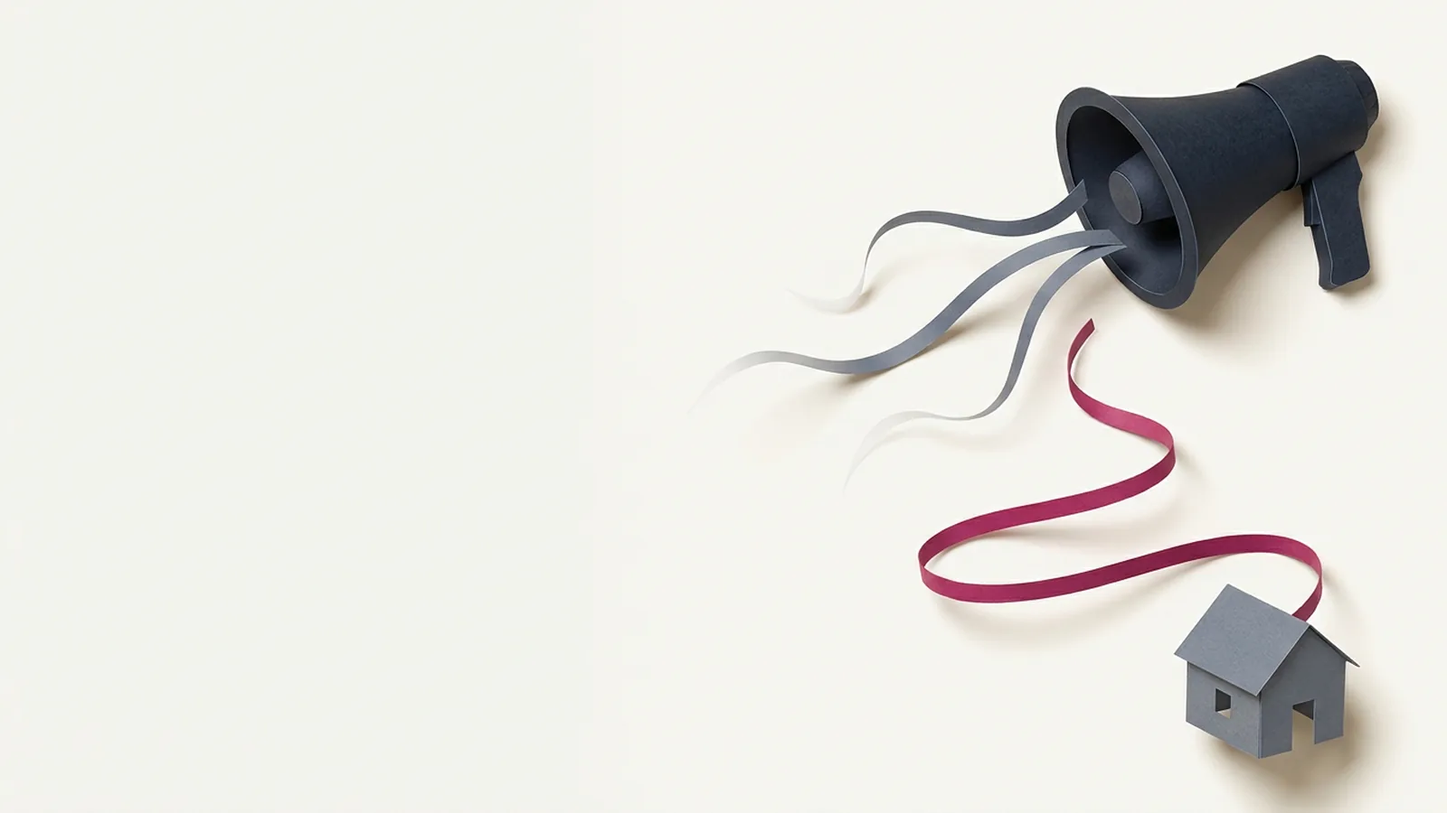
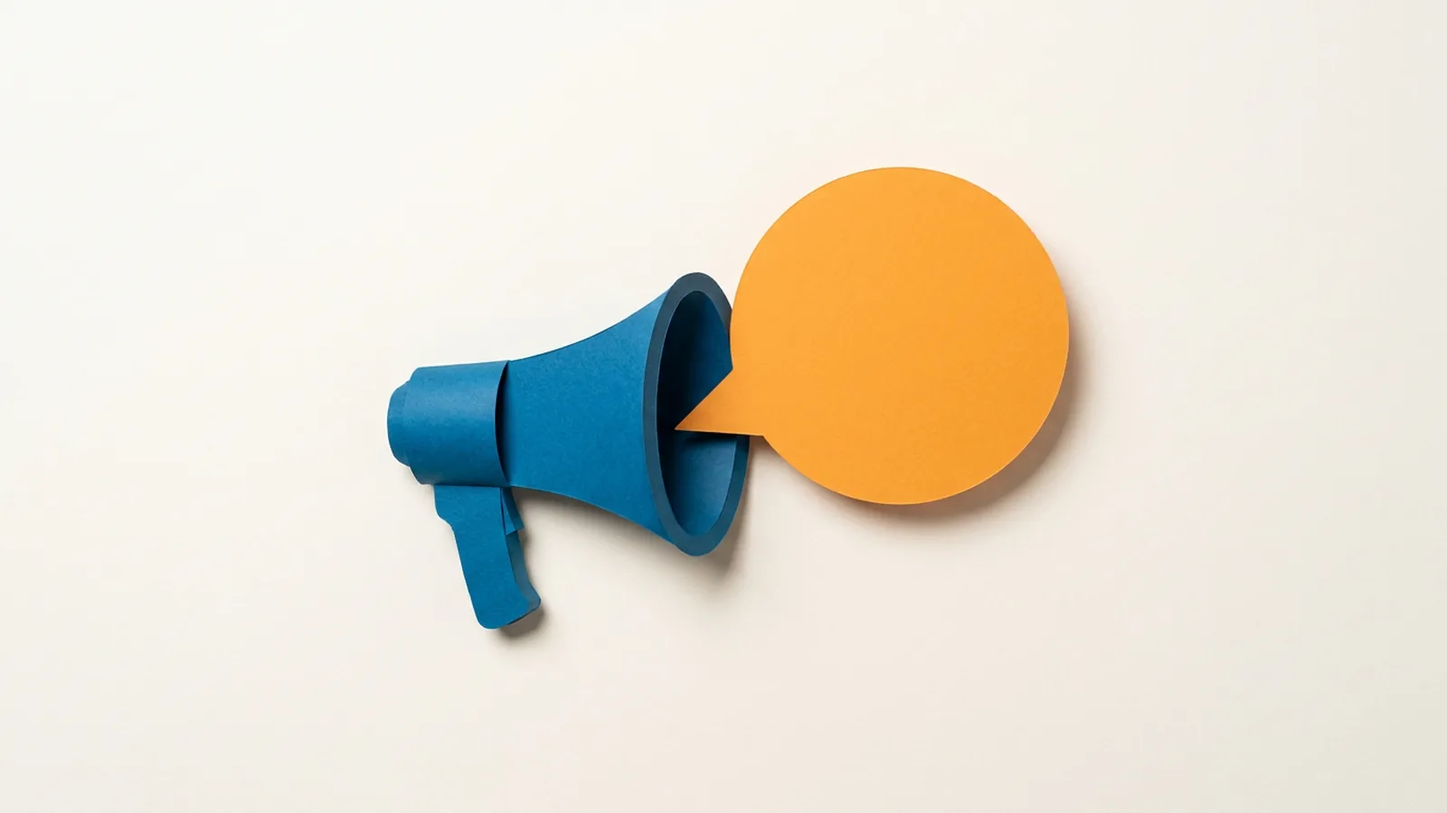
insights: replace dark hero images with BRAND.md E3 paper-craft (LINE megaphone, AI microphone)
Claude-Session: https://claude.ai/code/session_01CQJsM3v3SyBC2VxjnAvC4W

Changed region(s): [[0.25, 0.0622, 0.9688, 0.8089], [0.8125, 0.7156, 0.9688, 1.0]]

diff --git a/src/data/insights.ts b/src/data/insights.ts
@@ -401,7 +401,7 @@ export const insights: InsightPost[] = [
     cover: "/images/insights/line-news-trust-2026-hero",
     th: {
       coverAlt:
-        "ภาพประกอบกระดาษ โทรโข่งสีดำปล่อยแถบกระดาษสีเทาหลายเส้นที่ลอยจางหายไปกลางทาง มีเพียงแถบสีชมพูเส้นเดียวที่คดเคี้ยวลงไปถึงบ้านหลังเล็ก",
+        "ภาพประกอบกระดาษ โทรโข่งสีน้ำเงินบนพื้นกระดาษสีครีม เสียงที่ออกจากปากโทรโข่งกลายเป็นบับเบิลแชตสีส้มกลมๆ อันเดียว",
       coverCaption: "ภาพประกอบสร้างด้วย AI",
       title: "ช่องทางมีแล้ว แต่ความเชื่อใจหายไป: บทเรียนจากข้อมูลข่าวสารของคนไทยปี 2026",
       dek: "ข้อมูลปี 2026 ชี้ว่าคนไทยรับข่าวผ่านเฟซบุ๊กและ LINE แต่ความเชื่อมั่นต่อข่าวลดเหลือ 47% หน่วยงานรัฐควรสื่อสารอย่างไรให้คนเชื่อและลงมือทำ",
@@ -540,7 +540,7 @@ export const insights: InsightPost[] = [
     en: {
       title: "The channels are there, the trust is not: what Thailand's 2026 news data tells public communicators",
       coverAlt:
-        "Paper-craft illustration: a black megaphone sends out several grey paper strips that drift and fade, while a single pink strip winds all the way down to a small house",
+        "Paper-craft illustration on cream paper: a blue megaphone whose sound turns into a single round orange chat bubble",
       coverCaption: "Illustration generated with AI",
       dek: "Data from 2026 shows Thais get their news on Facebook and LINE, yet trust in news has fallen to 47%. How should government agencies communicate so that people believe the message and act on it?",
       body: [
@@ -682,7 +682,7 @@ export const insights: InsightPost[] = [
     cover: "/images/insights/ai-news-comfort-2025-hero",
     th: {
       coverAlt:
-        "ภาพประกอบกระดาษ เวทีเล็กที่มีม่านสีดำ ไมโครโฟนสีชมพูตั้งอยู่หน้าม่าน ส่วนเฟืองสีเทาซ่อนอยู่หลังม่านที่แง้มไว้",
+        "ภาพประกอบกระดาษ ไมโครโฟนตั้งโต๊ะสีส้มบนพื้นกระดาษสีครีม ฐานของไมโครโฟนเป็นเฟืองสีน้ำเงิน",
       coverCaption: "ภาพประกอบสร้างด้วย AI",
       title: "ให้ AI ช่วยได้ แต่อย่าให้ AI เป็นคนเล่า",
       dek: "ผลสำรวจ 6 ประเทศพบว่าคนสบายใจกับข่าวที่คนเขียน 62% แต่เหลือ 12% ถ้า AI เขียนทั้งหมด องค์กรไทยควรใช้ AI ในงานสื่อสารอย่างไรให้ไม่เสียความเชื่อใจ",
@@ -923,7 +923,7 @@ export const insights: InsightPost[] = [
     en: {
       title: "Let AI help, but don't let AI tell the story",
       coverAlt:
-        "Paper-craft illustration: a small stage with a black curtain, a pink microphone standing in front, and a grey gear half-hidden behind the parted curtain",
+        "Paper-craft illustration on cream paper: an orange desk microphone standing on a blue gear as its base",
       coverCaption: "Illustration generated with AI",
       dek: "A six-country survey finds 62% are comfortable with news written by people, but only 12% when AI writes it all. How should organisations use AI in communication without losing trust?",
       body: [

diff --git a/CLAUDE.md b/CLAUDE.md
@@ -95,7 +95,7 @@ public/
 | `researchMetrics.ts` | **ตัวชี้วัดระดับวารสารและระดับศูนย์ฯ จาก Scopus CiteScore 2025** (ผู้ใช้เก็บเอง 8 ก.ย. 2569) — `journalMetrics` 19 เล่ม · `centreSummary` · `scopusAuthors` 6 ท่าน · **จับคู่กับผลงานด้วยชื่อวารสาร ไม่ใช่ DOI** เพราะชุดข้อมูลต้นทางมี DOI ผิดสามรายการ (หนึ่งชี้ไปประกาศแก้ไขของบทความ อีกสองชี้ไปวิทยานิพนธ์ของนิสิต — ตรวจกับ Crossref แล้ว) DOI ที่ถูกอยู่ใน `publications.ts` ซึ่งผ่านการตรวจของสคริปต์มาแล้ว · ตัวเทียบชื่อแปลง `&` เป็น `and` ด้วย ไม่งั้นผลงานแปดชิ้นจับคู่ไม่ติดทั้งที่เป็นวารสารเล่มเดียวกัน · **percentile ต้องแสดงคู่ชื่อสาขาเสมอ** วารสารเล่มเดียวถูกจัดหลายสาขาและค่าต่างกันมาก (American Behavioral Scientist 97th ใน Cultural Studies แต่ 75th ใน Social Psychology) `check:content` ตรวจให้แล้ว · **ตัวหารไม่เท่ากัน** ผลงานในฐาน Scopus 48 ชิ้น แต่ตรวจ CiteScore ได้ 32 ชิ้น เขียนได้ว่า "24 จาก 32 ผลงานที่ตรวจสอบได้อยู่ในวารสารกลุ่มบนสุด 25% ของสาขา" **เขียนไม่ได้ว่า** "ผลงาน 75% ของศูนย์ฯ อยู่ใน Q1" · **ไม่ใช้ FWCI** ตัดสินใจร่วมกับผู้ใช้แล้ว · **ไม่ใช้ widget ของ Scopus** เพราะทดสอบแล้วโค้ดที่เขาให้ฝังค่าไว้ตายตัวเหมือนกัน แต่บังคับให้เพิ่มโดเมนภายนอกเข้า CSP |
 | `paperSummaries.ts` | บทสรุปย่อยง่ายไทย+อังกฤษของผลงานที่ทำหน้า `/research/[slug]` — **64 ชิ้นจาก 91** · **ฉบับจีนตัวย่อเป็น field `zh?` + `illustrationAltZh?` (optional โดยตั้งใจ — ทยอยแปลเป็นชุด ชุดที่ 1 = 10 ชิ้น PR #64 · ชุดที่ 2 = งานสุขภาพ/แรงงานข้ามชาติ 10 ชิ้น PR #66 · ชุดที่ 3 = `argument` ทั้ง 8 ชิ้น + สุขภาพ 2 ชิ้น PR #67 · งานของ ดร.อิบเตซาม 2 ชิ้น PR #73 · ชุดที่ 4 = การตลาด/ผู้บริโภค 5 + เอเชียตะวันออกเฉียงใต้/SDG 5 PR #74 · ชุดที่ 5 = เรื่องทั่วไป 8 + เลือกตั้งผู้ว่าฯ กทม. 2 PR #75 · ชุดที่ 6 (สุดท้าย) = สื่อรัสเซีย 5 + หัวข้ออ่อนไหว 5 + แม่วงก์ + วิกฤตโคราช PR #76 · **ครบ 64 จาก 64** — บทสรุปที่เพิ่มหลังจากนี้ต้องเติม `zh` ด้วย ไม่งั้นจะไม่มีหน้าจีนเงียบๆ)** หน้า `/zh/research/[slug]` · hreflang `zh-Hans` บนหน้าไทย/อังกฤษ · sitemap · ลิงก์ "อ่านบทสรุป" บน `/zh/research` · ดัชนีค้นหา ล้วนอ่านจาก field นี้ตัวเดียว (`paperSummariesZh`) จึงเปิดพร้อมกัน · ตัวตรวจท้ายไฟล์โยน error ถ้า `zh` กับ `illustrationAltZh` ไม่ครบคู่ · หน้าจีนไม่มีวิดีโอเพราะคลิปพากย์ไทย/อังกฤษเท่านั้น · **`kind` มีสองค่าสำหรับงานที่ไม่มีผลเชิงประจักษ์** — `"protocol"` ประกาศแผนวิจัย 3 ชิ้น (หัวข้อเป็น "จะทำอะไร") และ `"argument"` บทความเชิงแนวคิด 8 ชิ้น (หัวข้อเป็น "เสนออะไร" และป้ายบอกด้วยว่า**ข้อเสนอเป็นของผู้เขียน ไม่ใช่จุดยืนของศูนย์ฯ**) · ทั้งสองค่าเปลี่ยนหน้าเว็บ **สี่ที่** ต้องแก้ครบ: หัวข้อใน `PaperSummaryBody` · ป้ายเหนือเนื้อหา · คำนำหน้าชื่อเรื่องบนหน้า detail ทั้งสองภาษา · คำบนลิงก์ใน `ResearchExplorer`) · ผูกกับ `publications.ts` ด้วย `doi` **หรือ `indexUrl`** เพราะวารสารไทยใน ThaiJO (`jprad`, `jcomm`, `jcmn`) **ไม่ออก DOI ให้บทความเลย** เขียนเป็น union type บังคับให้มีอย่างใดอย่างหนึ่ง และ `publicationForSummary()` จะโยน error ถ้าเชื่อมไม่ติด (ให้ build พังดีกว่าปล่อยหน้ากำพร้าที่อยู่ใน sitemap แต่ขึ้น 404) · **`license` ไม่มีค่า = วารสารสงวนลิขสิทธิ์ ไม่ใช่ยังไม่ได้ตรวจ** ห้ามเดาใส่ และหน้าเว็บต้องไม่แสดงข้อความ CC ให้รายการที่ไม่มีค่า · `pdfUrl` ชี้ไปคลังของวารสารต้นทาง (เปิดแท็บใหม่) **เว็บไม่เก็บไฟล์ PDF เอง** · `localCopy` คือสำเนาใน `research-sources/papers/` ไว้ให้ AI อ่าน ไม่ได้เสิร์ฟ — **ใส่ได้เฉพาะ Creative Commons เพราะคลัง GitHub นี้เป็นสาธารณะ** ดู `research-sources/README.md` · **เน้นข้อความด้วย `**...**` ได้** `PaperSummaryBody` แปลงให้เป็นน้ำหนัก 500 (ห้ามใช้ `<strong>` เปล่าๆ เพราะค่าเริ่มต้นเบราว์เซอร์คือ 700 ผิด BRAND.md) · **ห้ามระบุชื่อองค์กรหรือบุคคลที่ถูกวิจารณ์ในข้อค้นพบ** (กติกาข้อ 5 ในหัวไฟล์) บทความต้นฉบับระบุได้เพราะเป็นงานวิชาการ แต่บทสรุปบนเว็บเป็นงานเขียนของศูนย์ฯ เอง ผู้อ่านย่อมอ่านว่าเป็นคำตัดสินของศูนย์ฯ · ต้องตัดตัวเลขที่ชี้ตัวได้ออกด้วย · ทุกรายการต้องมี `illustrationAltTh/En` และภาพสามขนาดใน `public/images/research/summaries/` |
 | `paperVideos.ts` | **วิดีโอเล่าสาระหลักของบทความ** (ทำแล้ว 25 เรื่อง = นำร่อง 3 + ชุดที่ 2 อีก 5 + ชุดที่ 3 อีก 5 + ชุดที่ 4 อีก 5 + ชุดที่ 5 อีก 5 + **ชุดที่ 7 อีก 2 (ผลงานของ ดร.อิบเตซาม · ไม่เจนภาพ · 29 ก.ย.)** · 50 คลิป — ฝังบนเว็บแล้วครบ 25 เรื่อง 50 คลิป · ชุดที่ 3–5 ผู้ใช้เผยแพร่ 5 ก.ย. ผ่าน Apps Script `ComInno-YouTube-Metadata.gs` ที่เขียนให้ — ใส่ชื่อ/คำอธิบาย/แท็กจาก CSV แล้วเผยแพร่ฉบับร่างทีเดียว 20 คลิป ใช้ YouTube Data API v3 ในตัว Apps Script · id เอาจาก log ของสคริปต์ + ฟีด RSS ของช่อง (`youtube.com/feeds/videos.xml?channel_id=…` ให้ 15 รายการล่าสุด) แล้วตรวจซ้ำด้วย oEmbed ว่าชื่อคลิปตรง) — slug → id YouTube ไทย/อังกฤษ + ความยาว + วันอัปโหลด · หน้า `/research/[slug]` สลับภาพประกอบหัวหน้าเป็นตัวเล่นวิดีโอ (`PaperVideo` — facade โหลด iframe เมื่อกดเล่น หน้าปกคือภาพประจำบทความในเว็บเรา ไม่ดึงจาก YouTube) และประกาศ `VideoObject` ใน JSON-LD เฉพาะหน้าที่มีคลิป · **คลิปต้องเป็น public หรือ unlisted** private ฝังไม่ได้ · `slug` ต้องตรงกับ `paperSummaries.ts` (โยน error ตอนโหลด + `check:content` ตรวจซ้ำ) · ไม่มี `youtubeId` = ยังไม่อัปโหลดคลิปภาษานั้น หน้าแสดงภาพประกอบตามปกติ · **ชุดที่ 6 เขียนสตอรี่บอร์ดแล้ว ยังไม่เจน และไม่มีกำหนด** (`scripts/video/storyboard_batch6.py` · ประเมิน $10.22) — **6 ก.ย. 2569 ผู้ใช้ตัดสินใจว่าต่อไปนี้ไม่สร้างวิดีโอที่เจนด้วย AI แบบนี้อีก** เพราะเปลืองเครดิตและดูไม่เป็นธรรมชาติ · **ห้ามเสนอหรือสั่งเจนชุดที่ 6 เอง** จะทำได้ก็ต่อเมื่อผู้ใช้เปิดเรื่องนี้ขึ้นมาใหม่เป็นคำสั่งชัดเจน |
-| `insights.ts` | **บทความ (Insights)** หน้า `/insights` + `/en/insights` (20 ต.ค. 2569) — งานเขียนของศูนย์ฯ ที่เรียบเรียงหลักฐานจากหลายงานวิจัยเพื่อผู้อ่านที่อาจมาร่วมงาน (หน่วยงานรัฐ องค์กรระหว่างประเทศ เอเจนซี) · ใช้คู่มือเสียงจากชุดไฟล์ ComInno Content Studio ของผู้ใช้ · **ตัวเลขทุกตัวต้องมาจากงานที่มีหน้าบทสรุปแล้ว** และใส่ slug ไว้ใน `evidence` (build พังถ้า slug ไม่มีจริง) · ตัวละครเปิดเรื่องต้องกำกับว่าสมมติ · งานก่อนตั้งศูนย์ฯ ห้ามเขียนว่าศูนย์ฯ ทำ · ชื่อหน่วยงานใช้ได้เฉพาะที่อยู่บนหน้า Impact (ผู้ใช้อนุมัติ) · ไม่มีฉบับจีน · ไม่ใช้ `**` · `/insights` เดิมเป็น redirect จาก Wix ไป `/news` ลบออกแล้ว (`/blog` ยังไป `/news`) · ลำดับบทความที่ผู้ใช้ให้จัดเอง: ① ออกแบบร่วมกับผู้รับสาร ② สื่อสารสุขภาพกับคนเข้าถึงยาก ③ วัดผลเกินยอดไลก์ ④ ภาพไทยในสื่อต่างชาติ ⑤ ทำงานกับศูนย์วิจัยในมหาวิทยาลัย · **บทความที่สอง `line-news-trust-2026` (21 ต.ค.) ใช้สถิติจาก Statista** ที่ผู้ใช้เปิดดูผ่านบัญชีที่ล็อกอินเอง — สถิติภายนอกไม่มีหน้าบทสรุปให้ผูก จึงใส่ใน `references` (URL + วันที่เข้าถึง) แทน `evidence` · **ห้ามคัดลอกภาพกราฟของ Statista** สร้างใหม่จากตัวเลขด้วย block `chart` (`InsightChart` วาดเอง ป้ายเป็นข้อความจริง หน้าอังกฤษจึงได้กราฟภาษาอังกฤษ) และเครดิต "<แหล่งต้นทาง> via Statista" ใต้กราฟทุกครั้ง · `cover`/`evidence` เป็น optional (บรีฟสั่งเว้นภาพหัวไว้) ภาพแชร์เลือกผ่าน `insightImage()` · block `tips` = ข้อแนะนำมีเลขกำกับ (ไม่ใช้ไอคอน lucide ที่มากับชุดไฟล์เพราะเป็นเส้นสีเดียว ไม่ใช่ภาษาภาพของ `SectionIcon`) · **บทความที่สาม `ai-news-comfort-2025` + ฉบับปรับบทความแรกที่เพิ่มสถิติ ILO via Statista (21 ต.ค.)** · **กราฟ interactive หกแบบ** (ตามคู่มือภาพ Content Studio "หนึ่งกราฟหนึ่งลูกเล่น ห้ามซ่อนข้อมูล"): `bar` + `guess` ทายก่อนเฉลย · `line` วาดตัวเอง + tooltip · `dial` แถบเลื่อนทีละขั้น · `pick` เลือกแล้วเทียบ (`InsightChartChoice`) · `waffle` 100 ช่องต่อปี · `coverage` มีสิทธิ์ vs ลงทะเบียน (`InsightChartShare`) — **HTML ที่ build ออกมาแสดงข้อมูลครบทุกค่า ลูกเล่นเริ่มหลัง hydrate** (ไม่มี JS/ลดการเคลื่อนไหวก็เห็นครบ) · ภาพ hero เจนด้วย gemini-3-pro-image ($0.20/ใบ ผู้ใช้เลือกจาก 3 แบบ) ต้องมี `coverCaption` "ภาพประกอบสร้างด้วย AI" · ลิงก์ภายในย่อหน้าใช้ `links` (build พังถ้าไม่เจอข้อความ) · รายการอ้างอิงอยู่หลังกล่องงานวิจัย หัวข้อตั้งได้ด้วย `referencesTitle` |
+| `insights.ts` | **บทความ (Insights)** หน้า `/insights` + `/en/insights` (20 ต.ค. 2569) — งานเขียนของศูนย์ฯ ที่เรียบเรียงหลักฐานจากหลายงานวิจัยเพื่อผู้อ่านที่อาจมาร่วมงาน (หน่วยงานรัฐ องค์กรระหว่างประเทศ เอเจนซี) · ใช้คู่มือเสียงจากชุดไฟล์ ComInno Content Studio ของผู้ใช้ · **ตัวเลขทุกตัวต้องมาจากงานที่มีหน้าบทสรุปแล้ว** และใส่ slug ไว้ใน `evidence` (build พังถ้า slug ไม่มีจริง) · ตัวละครเปิดเรื่องต้องกำกับว่าสมมติ · งานก่อนตั้งศูนย์ฯ ห้ามเขียนว่าศูนย์ฯ ทำ · ชื่อหน่วยงานใช้ได้เฉพาะที่อยู่บนหน้า Impact (ผู้ใช้อนุมัติ) · ไม่มีฉบับจีน · ไม่ใช้ `**` · `/insights` เดิมเป็น redirect จาก Wix ไป `/news` ลบออกแล้ว (`/blog` ยังไป `/news`) · ลำดับบทความที่ผู้ใช้ให้จัดเอง: ① ออกแบบร่วมกับผู้รับสาร ② สื่อสารสุขภาพกับคนเข้าถึงยาก ③ วัดผลเกินยอดไลก์ ④ ภาพไทยในสื่อต่างชาติ ⑤ ทำงานกับศูนย์วิจัยในมหาวิทยาลัย · **บทความที่สอง `line-news-trust-2026` (21 ต.ค.) ใช้สถิติจาก Statista** ที่ผู้ใช้เปิดดูผ่านบัญชีที่ล็อกอินเอง — สถิติภายนอกไม่มีหน้าบทสรุปให้ผูก จึงใส่ใน `references` (URL + วันที่เข้าถึง) แทน `evidence` · **ห้ามคัดลอกภาพกราฟของ Statista** สร้างใหม่จากตัวเลขด้วย block `chart` (`InsightChart` วาดเอง ป้ายเป็นข้อความจริง หน้าอังกฤษจึงได้กราฟภาษาอังกฤษ) และเครดิต "<แหล่งต้นทาง> via Statista" ใต้กราฟทุกครั้ง · `cover`/`evidence` เป็น optional (บรีฟสั่งเว้นภาพหัวไว้) ภาพแชร์เลือกผ่าน `insightImage()` · block `tips` = ข้อแนะนำมีเลขกำกับ (ไม่ใช้ไอคอน lucide ที่มากับชุดไฟล์เพราะเป็นเส้นสีเดียว ไม่ใช่ภาษาภาพของ `SectionIcon`) · **บทความที่สาม `ai-news-comfort-2025` + ฉบับปรับบทความแรกที่เพิ่มสถิติ ILO via Statista (21 ต.ค.)** · **กราฟ interactive หกแบบ** (ตามคู่มือภาพ Content Studio "หนึ่งกราฟหนึ่งลูกเล่น ห้ามซ่อนข้อมูล"): `bar` + `guess` ทายก่อนเฉลย · `line` วาดตัวเอง + tooltip · `dial` แถบเลื่อนทีละขั้น · `pick` เลือกแล้วเทียบ (`InsightChartChoice`) · `waffle` 100 ช่องต่อปี · `coverage` มีสิทธิ์ vs ลงทะเบียน (`InsightChartShare`) — **HTML ที่ build ออกมาแสดงข้อมูลครบทุกค่า ลูกเล่นเริ่มหลัง hydrate** (ไม่มี JS/ลดการเคลื่อนไหวก็เห็นครบ) · ภาพ hero เจนด้วย gemini-3-pro-image (**≈ $0.30/ใบเมื่อแนบภาพอ้างอิงสไตล์** ไม่ใช่ $0.20 — ประเมินราคาพร้อมภาพอ้างอิงเสมอ) · **ยึด BRAND.md E3 เท่านั้น ไม่ใช้ GROK-INSTRUCTIONS.md** (ผู้ใช้สั่ง 23 ต.ค.): วัตถุเดียวกลางภาพ · สองสีจากพาเลต SDG ตามหัวข้อ · พื้นกระดาษครีม · ชุดแรกที่เป็นโทนดำผู้ใช้ปฏิเสธเพราะไม่เข้ากับธีม · ภาพปัจจุบัน LINE = โทรโข่งน้ำเงิน SDG16 + บับเบิลส้ม SDG11 · AI = ไมโครโฟนส้ม SDG9 บนฐานเฟืองน้ำเงิน SDG16 ต้องมี `coverCaption` "ภาพประกอบสร้างด้วย AI" · ลิงก์ภายในย่อหน้าใช้ `links` (build พังถ้าไม่เจอข้อความ) · รายการอ้างอิงอยู่หลังกล่องงานวิจัย หัวข้อตั้งได้ด้วย `referencesTitle` |
 | `leadership.ts` | ผู้บริหารศูนย์ |
 | `team.ts` / `researchers.ts` | ทีมงานและนักวิจัย |
 | `partners.ts` | หน่วยงานพันธมิตร |
